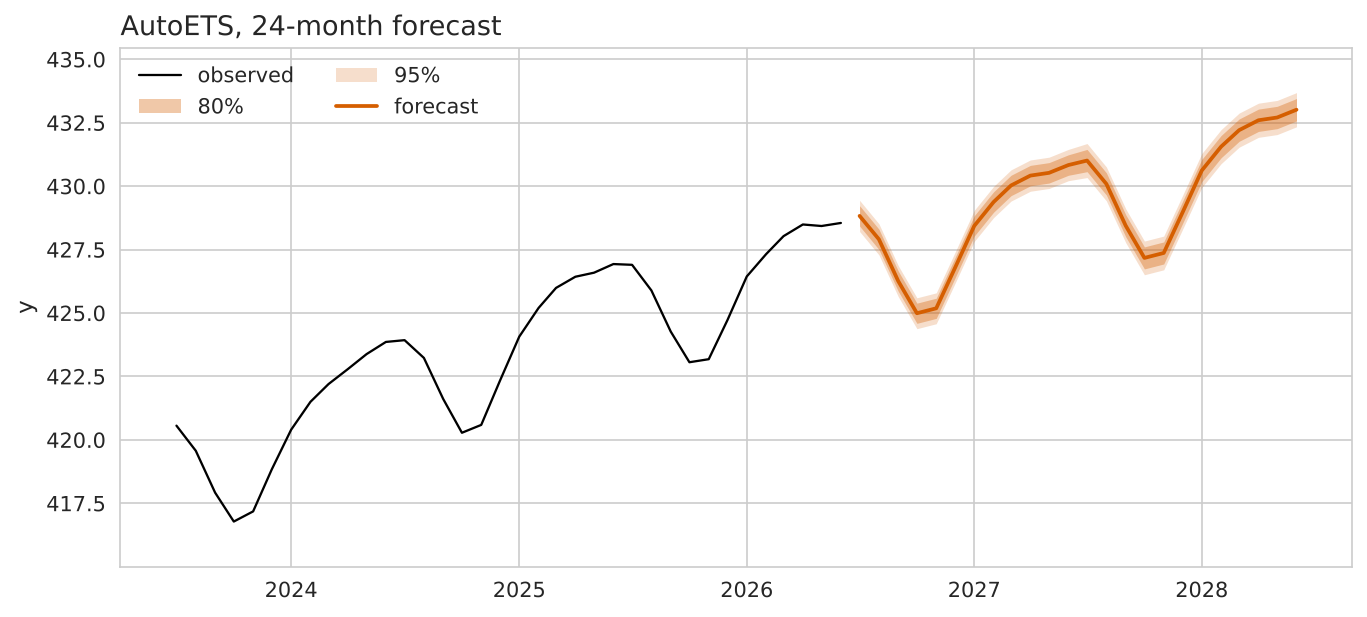
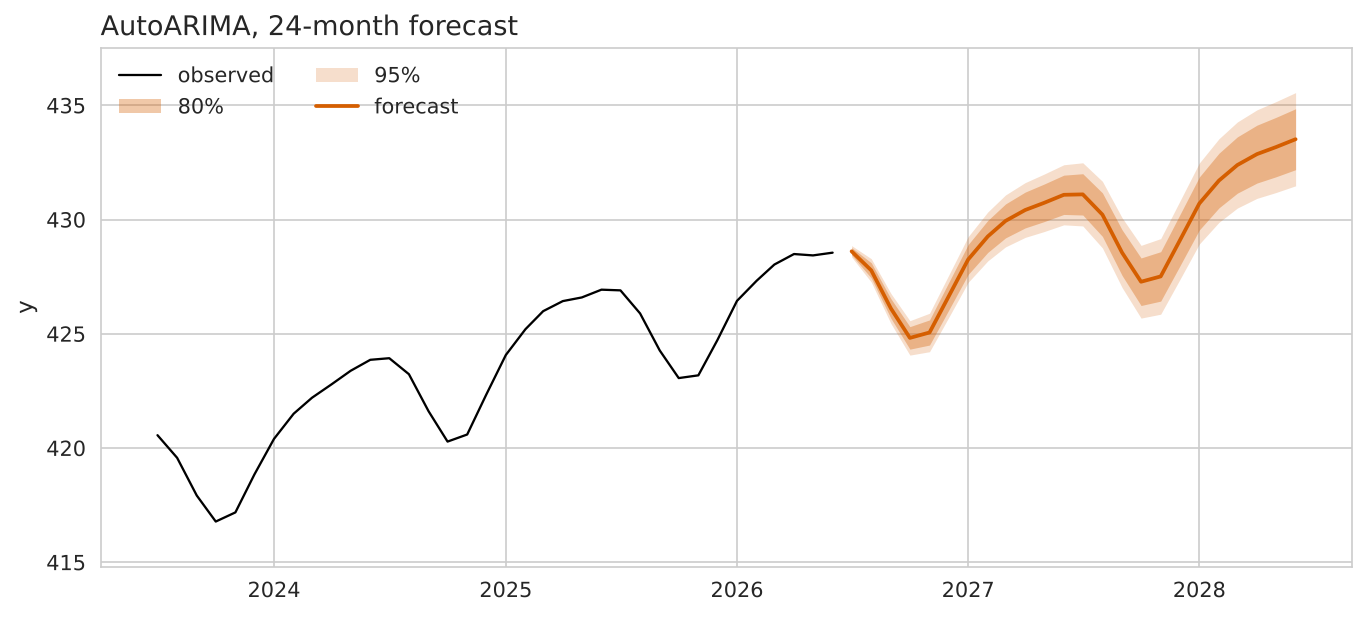
Add AutoARIMA to harness; ship AutoARIMA

Changed region(s): [[0.0307, 0.0, 0.9832, 0.8622], [0.0307, 0.893, 0.9832, 0.9854]]

diff --git a/report.md b/report.md
@@ -2,42 +2,45 @@
 
 ## Recommendation
 
-Ship AutoETS. Over eight rolling 12-month forecasts its MASE is 0.17, against 1.37 for the seasonal-naive floor, about eight times more accurate than repeating last year's values.
+Ship AutoARIMA. Over eight rolling 12-month forecasts its MASE is 0.16, against 1.37 for the seasonal-naive floor, about eight times more accurate than repeating last year's values. AutoETS is nearly as good (MASE 0.17); the choice between them rests mainly on the intervals and the bias, covered below.
 
 The data is monthly global CO2 from NOAA GML: 568 months, March 1979 to June 2026. It rises steadily (about 337 to 429 ppm) with a yearly cycle of about 5 ppm, so a model needs both a trend and a season. The floor has the season but no trend, and that is why it loses.
 
-| Model | MASE | CRPS | 80% coverage |
-|---|---|---|---|
-| Seasonal naive (floor) | 1.37 | 0.0033 | 0.60 |
-| Random walk with drift | 0.92 | 0.0030 | 0.70 |
-| AutoETS | 0.17 | 0.0005 | 0.75 |
+| Model | MASE | CRPS | 80% coverage | 80% band width (ppm) |
+|---|---|---|---|---|
+| AutoARIMA | 0.16 | 0.0004 | 0.92 | 1.21 |
+| AutoETS | 0.17 | 0.0005 | 0.75 | 0.89 |
+| AutoTheta | 0.32 | 0.0010 | 0.46 | 0.93 |
+| Random walk with drift | 0.92 | 0.0030 | 0.70 | 5.78 |
+| Naive | 0.97 | 0.0027 | 0.75 | 5.82 |
+| Seasonal naive (floor) | 1.37 | 0.0033 | 0.60 | 5.04 |
 
-The gap holds in every window. AutoETS's worst window (MASE 0.44) beats the floor's best (1.17). A single holdout would have hidden this, so the comparison uses eight origins.
+The gap holds in every window. AutoARIMA's worst window (MASE 0.30) beats the floor's best (1.17). A single holdout would have hidden this, so the comparison uses eight origins.
 
 ## The intervals
 
-The 80% band for AutoETS averages 0.89 ppm wide, narrow next to the 5 ppm yearly swing.
+The 80% band for AutoARIMA averages 1.21 ppm wide, still narrow next to the 5 ppm yearly swing.
 
-![AutoETS 24-month forecast with 80% and 95% bands](figures/02_forecast.png)
+![AutoARIMA 24-month forecast with 80% and 95% bands](figures/02_forecast.png)
 
-It is slightly overconfident, though. An 80% band should contain the truth 80% of the time and this one does so 75% of the time. That is still the best of the three (the floor covers 60%, drift 70%). For planning, treat the band as a little tighter than advertised. With only 96 forecast points, the gap is small and imprecisely estimated.
+It errs on the cautious side. An 80% band should contain the truth 80% of the time and this one does so 92% of the time (and its 95% band always did). AutoETS errs the other way: its band is tighter (0.89 ppm) but covers only 75%. For planning, a band that is a little too wide is safer than one that is too tight. With only 96 forecast points, these coverage figures are imprecise.
 
 ## What the model missed
 
-The floor's errors (this year minus last year) average +1.93 ppm, are almost always positive, and move slowly (lag-1 autocorrelation 0.96). This is the missing trend: the floor repeats last year and ignores the yearly rise. A model with an adaptive trend can absorb it, and AutoETS does.
+The floor's errors (this year minus last year) average +1.93 ppm, are almost always positive, and move slowly (lag-1 autocorrelation 0.96). This is the missing trend: the floor repeats last year and ignores the yearly rise. A model with an adaptive trend can absorb it, and both AutoARIMA and AutoETS do.
 
-AutoETS has two remaining weaknesses:
+AutoARIMA has two remaining weaknesses:
 
-- **Bias.** Its mean error is +0.22 ppm, so it tends to forecast slightly low.
-- **Horizon.** Its average absolute error grows from 0.11 ppm one month ahead to 0.51 ppm twelve months ahead, roughly fivefold.
+- **Bias.** Its mean error is +0.07 ppm, so it tends to forecast very slightly low (AutoETS: +0.22 ppm).
+- **Horizon.** Its average absolute error grows from 0.09 ppm one month ahead to 0.52 ppm twelve months ahead, roughly sixfold.
 
 Both are small relative to the signal. The model is most reliable over the next few months and less so near the end of the year.
 
 ## Limits of this work
 
-- Only AutoETS went through the full eight-window evaluation. AutoARIMA was on the shortlist from the AutoGluon run but was not tested the same way, so I can't say it wouldn't do as well.
+- The difference between AutoARIMA (MASE 0.16) and AutoETS (0.17) is small on eight windows, so I would not call it decisive. The preference for AutoARIMA comes from its smaller bias and its safer band.
 - The most recent months of data are provisional and get revised, so the last windows carry extra uncertainty.
 
 ## One change
 
-Calibrate the interval and re-check coverage. Scale the AutoETS band using the errors from the eight evaluation windows so it covers 80% instead of 75%, and run AutoARIMA through the same eight-window harness. I expect the point forecast to stay the same (MASE about 0.17) and coverage to move to about 0.80, with a slightly wider band. If AutoARIMA matches AutoETS on accuracy and has better coverage, ship that one.
+Calibrate the interval and re-check coverage. Scale the AutoARIMA band using the errors from the eight evaluation windows so it covers 80% instead of 92%. I expect the point forecast to stay the same (MASE about 0.16) and the band to get narrower, with coverage moving toward 0.80.

diff --git a/README.md b/README.md
@@ -18,7 +18,7 @@ I chose it because it has a strong trend and a regular yearly cycle, which expos
 
 ## Result
 
-I compared AutoETS with a seasonal-naive floor and a random walk with drift, using rolling-origin cross-validation. AutoETS wins on every metric over eight rolling 12-month windows (MASE 0.17 vs 1.37). Full write-up in [report.md](report.md).
+I compared six models (seasonal-naive floor, naive, random walk with drift, AutoTheta, AutoETS, AutoARIMA) with rolling-origin cross-validation. AutoARIMA has the lowest MASE and CRPS over eight rolling 12-month windows (MASE 0.16 vs 1.37 for the floor), with AutoETS close behind (0.17). Full write-up in [report.md](report.md).
 
 ## Files
 
